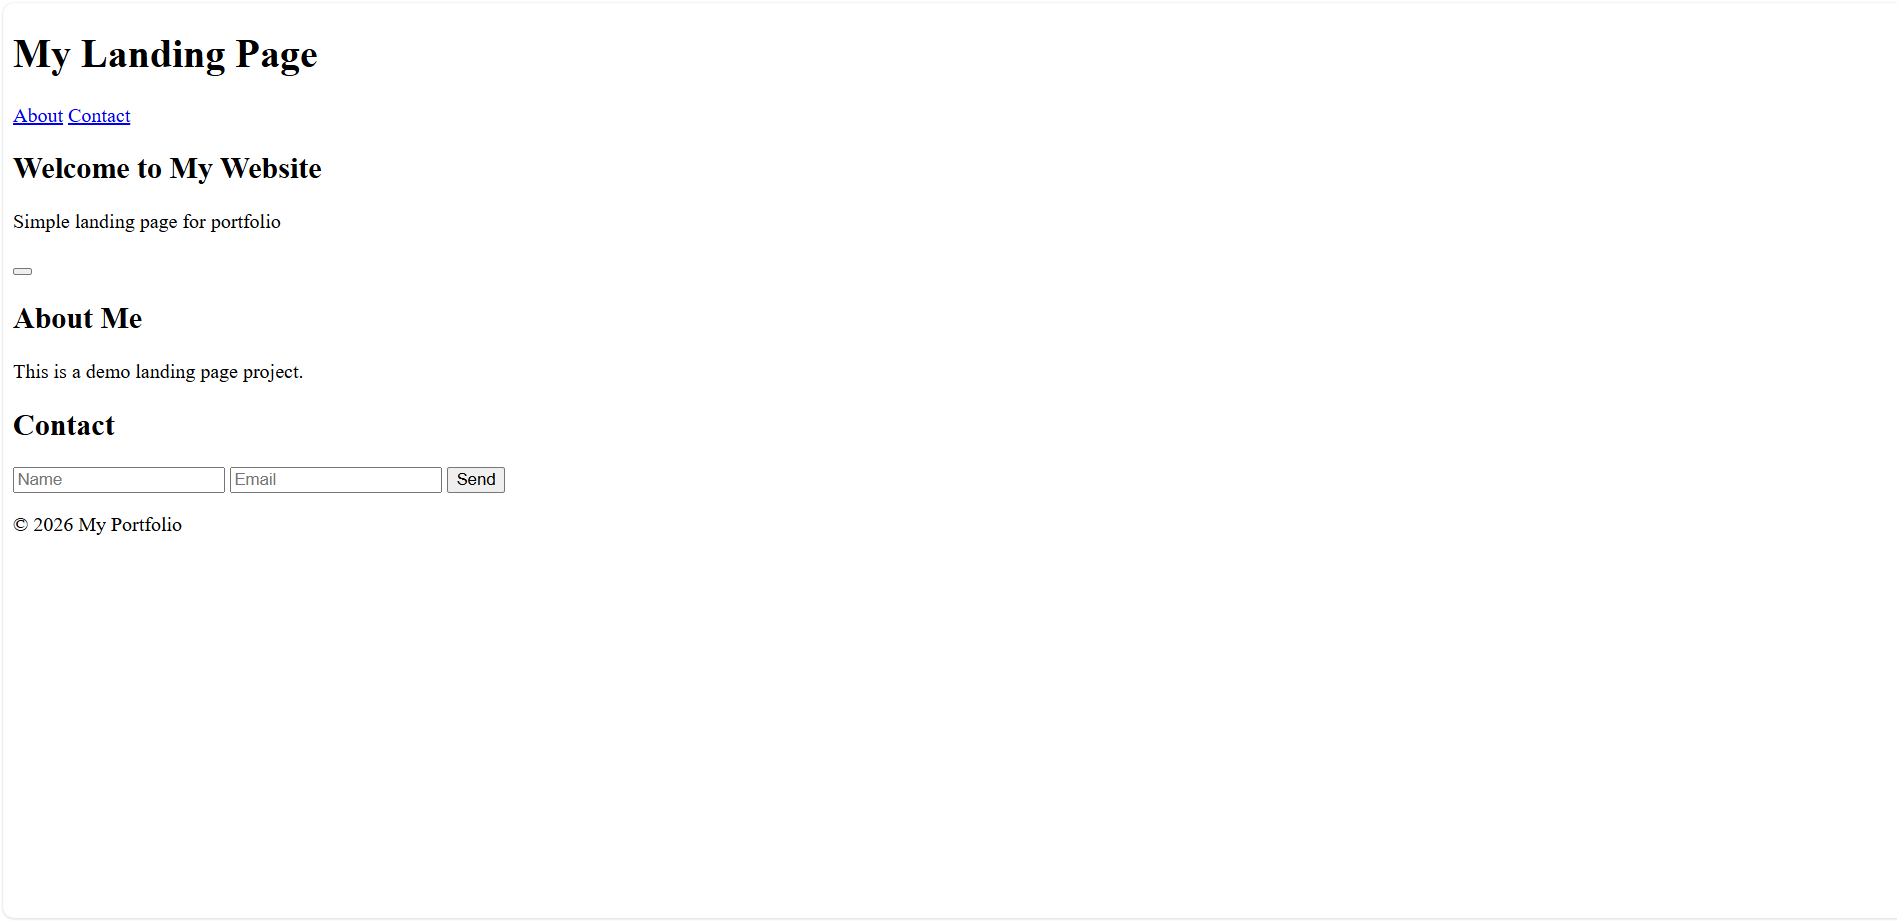
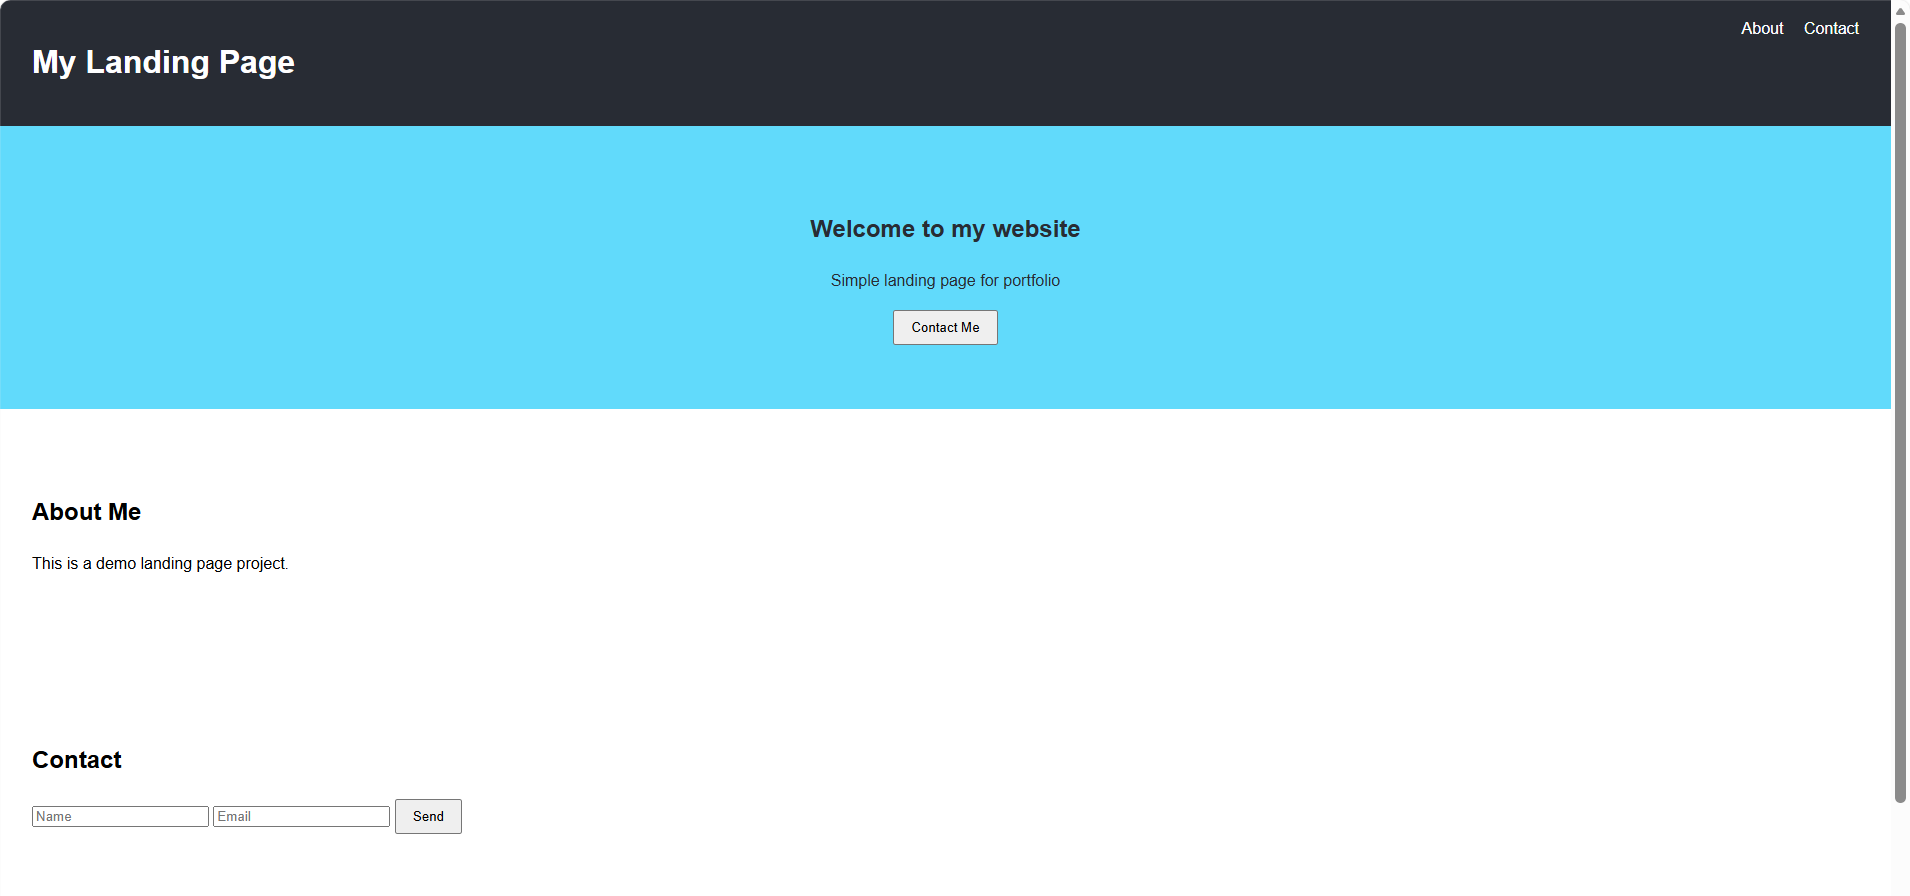
feat: complete landing page implementation and update screenshot

diff --git a/index.html b/index.html
@@ -1,0 +1,44 @@
+<!DOCTYPE html>
+<html lang="en">
+<head>
+    <meta charset="UTF-8">
+    <meta name="viewport" content="width=device-width, initial-scale=1.0">
+    <title>Landing Page</title>
+    <link rel="stylesheet" href="style.css">
+</head>
+<body>
+    <header>
+        <h1>My Landing Page</h1>
+        <nav>
+            <a href="#about">About</a>
+            <a href="#contact">Contact</a>
+        </nav>
+    </header>
+
+    <section id="hero">
+        <h2>Welcome to my website</h2>
+        <p>Simple landing page for portfolio</p>
+        <button onclick="scrollToContact()">Contact Me</button>
+    </section>
+
+    <section id="about">
+        <h2>About Me</h2>
+        <p>This is a demo landing page project.</p>
+    </section>
+
+    <section id="contact">
+        <h2>Contact</h2>
+        <form onsubmit="handleSubmit(event)">
+            <input type="text" placeholder="Name" required>
+            <input type="email" placeholder="Email" required>
+            <button type="submit">Send</button>
+        </form>
+    </section>
+
+    <footer>
+        <p>&copy; 2026 My Portfolio</p>
+    </footer>
+
+    <script src="script.js"></script>
+</body>
+</html>

diff --git a/style.css b/style.css
@@ -1,0 +1,42 @@
+body {
+    font-family: Arial, sans-serif;
+    margin: 0;
+    padding: 0;
+    line-height: 1.6;
+}
+
+header {
+    display: flex;
+    justify-content: space-between;
+    padding: 1rem 2rem;
+    background-color: #282c34;
+    color: white;
+}
+
+nav a {
+    color: white;
+    text-decoration: none;
+    margin-left: 1rem;
+}
+
+section {
+    padding: 4rem 2rem;
+}
+
+#hero {
+    background-color: #61dafb;
+    color: #282c34;
+    text-align: center;
+}
+
+button {
+    padding: 0.5rem 1rem;
+    cursor: pointer;
+}
+
+footer {
+    text-align: center;
+    padding: 2rem;
+    background-color: #282c34;
+    color: white;
+}

diff --git a/script.js b/script.js
@@ -1,0 +1,9 @@
+function scrollToContact() {
+    document.getElementById("contact").scrollIntoView({ behavior: "smooth" });
+}
+
+function handleSubmit(event) {
+    event.preventDefault();
+    alert("Thank you! Your message has been sent.");
+    
+}

diff --git a/README.md b/README.md
@@ -13,7 +13,7 @@ JavaScript
 - Contact form alert
 
 ## Demo
-[Live Demo](https://starlit-axolotl-735697.netlify.app)
+[Live Demo](https://splendorous-crepe-96e648.netlify.app)
 
 ## Screenshot
 ![Landing Page](images/pscr.png)
